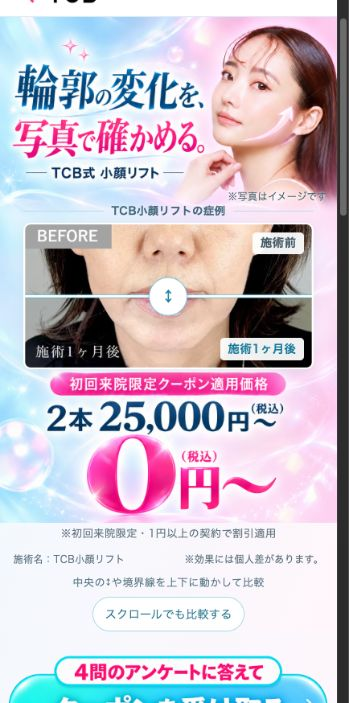
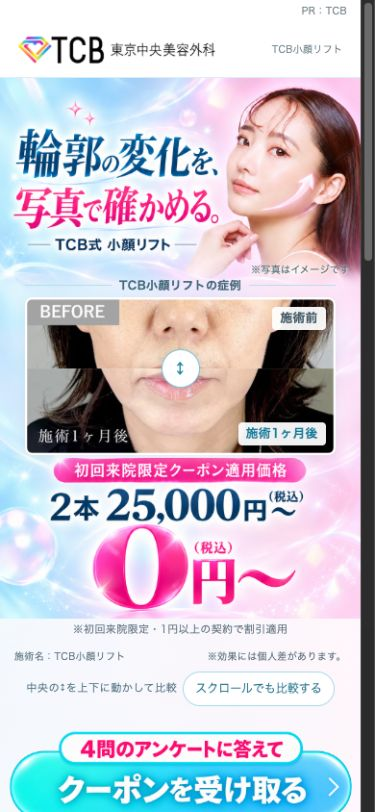
Remove horizontal lines from the manual case comparison

diff --git a/plan2.html b/plan2.html
@@ -6,7 +6,7 @@
 <meta content="width=device-width, initial-scale=1" name="viewport"/>
 <title>案2｜TCB小顔リフト｜画像デザイン版</title>
 <meta content="メスを使わない小顔術。タップで回答後、WEB予約限定30,000円OFFクーポン。" name="description"/>
-<link href="assets/9e771a79-lp.css" rel="stylesheet"/><link href="assets/85e780d7-ito-body.css" rel="stylesheet"/><link href="assets/d894dd17-tcb-template.css" rel="stylesheet"/><link href="assets/8ef37128-tcb-hero-art.css" rel="stylesheet"/><link href="assets/4cfdd9ff-tcb-progressive.css" rel="stylesheet"/><link href="assets/6c381362-tcb-body-images.css" rel="stylesheet"/><link href="assets/4fcc391f-ito-offer.css" rel="stylesheet"/><link href="assets/9528fad1-ito-dewy.css" rel="stylesheet"/><link href="assets/765aee84-ito-benefit-features.css" rel="stylesheet"/><link href="assets/f555da5e-ito-official-flow.css" rel="stylesheet"/><link href="assets/93b190fc-ito-luna.css" rel="stylesheet"/><link href="assets/4007dec8-ito-review.css" rel="stylesheet"/><link href="assets/fd6b892c-ito-sep25.css" rel="stylesheet"/><link href="assets/6dbf6036-ito-case-prices.css" rel="stylesheet"/><link href="minimal-update.css?v=20261030" rel="stylesheet"/><link href="survey-redesign.css?v=quality20261031" rel="stylesheet"/><link href="image-fv.css?v=quality20261031" rel="stylesheet"/><link href="destination-tone.css?v=quality20261031" rel="stylesheet"/><link href="quality-polish.css?v=20261031" rel="stylesheet"/><link href="original-tone.css?v=20261031" rel="stylesheet"/><link href="juno-art-direction.css?v=cases-stack20261101" rel="stylesheet"/><link href="juno-reference.css?v=selection-pulse20261101" rel="stylesheet"/><link href="case-comparison.css?v=20261103" rel="stylesheet"/><link href="fv-case-plan2.css?v=manual-default20261103" rel="stylesheet"/>
+<link href="assets/9e771a79-lp.css" rel="stylesheet"/><link href="assets/85e780d7-ito-body.css" rel="stylesheet"/><link href="assets/d894dd17-tcb-template.css" rel="stylesheet"/><link href="assets/8ef37128-tcb-hero-art.css" rel="stylesheet"/><link href="assets/4cfdd9ff-tcb-progressive.css" rel="stylesheet"/><link href="assets/6c381362-tcb-body-images.css" rel="stylesheet"/><link href="assets/4fcc391f-ito-offer.css" rel="stylesheet"/><link href="assets/9528fad1-ito-dewy.css" rel="stylesheet"/><link href="assets/765aee84-ito-benefit-features.css" rel="stylesheet"/><link href="assets/f555da5e-ito-official-flow.css" rel="stylesheet"/><link href="assets/93b190fc-ito-luna.css" rel="stylesheet"/><link href="assets/4007dec8-ito-review.css" rel="stylesheet"/><link href="assets/fd6b892c-ito-sep25.css" rel="stylesheet"/><link href="assets/6dbf6036-ito-case-prices.css" rel="stylesheet"/><link href="minimal-update.css?v=20261030" rel="stylesheet"/><link href="survey-redesign.css?v=quality20261031" rel="stylesheet"/><link href="image-fv.css?v=quality20261031" rel="stylesheet"/><link href="destination-tone.css?v=quality20261031" rel="stylesheet"/><link href="quality-polish.css?v=20261031" rel="stylesheet"/><link href="original-tone.css?v=20261031" rel="stylesheet"/><link href="juno-art-direction.css?v=cases-stack20261101" rel="stylesheet"/><link href="juno-reference.css?v=selection-pulse20261101" rel="stylesheet"/><link href="case-comparison.css?v=20261103" rel="stylesheet"/><link href="fv-case-plan2.css?v=no-divider20261103" rel="stylesheet"/>
 </head>
 <body class="theme-ito tcb-template ito-dewy ito-minimal-update" data-plan="2">
 <div class="page-wrap">
@@ -254,5 +254,5 @@
 <script src="assets/d0a99d02-tcb-case-autoplay.js?v=cases-stack20261101"></script>
 <script src="assets/f33a07ea-tcb-template.js"></script><script src="assets/15a8c400-ito-official-flow.js"></script><div class="sticky-cta" data-sticky-cta=""><a aria-label="WEBから予約して30,000円OFFクーポンをGETする（無料カウンセリング予約）" class="btn-cta ito-sparkle-cta ito-image-cta" href="https://t-c-b-biyougeka.com/threadlift_young_meta_c#reserve" rel="noopener" target="_blank"><img alt="WEBから予約して 30,000円OFFクーポンをGETする！" height="724" src="assets/cta-reservation-juno-v1.png" width="2172"/></a></div>
 <script src="assets/0c0a649d-ito-benefit-motion.js"></script>
-<script src="survey-redesign.js?v=two-line20261101"></script><script src="image-fv.js?v=juno20261031"></script><script src="quality-polish.js?v=image-recovery20261103"></script><script src="juno-reference.js?v=20261031"></script><script src="fv-case-scroll.js?v=manual-default20261103"></script></body>
+<script src="survey-redesign.js?v=two-line20261101"></script><script src="image-fv.js?v=juno20261031"></script><script src="quality-polish.js?v=image-recovery20261103"></script><script src="juno-reference.js?v=20261031"></script><script src="fv-case-scroll.js?v=no-divider20261103"></script></body>
 </html>

diff --git a/index.html b/index.html
@@ -46,7 +46,7 @@
 <article class="card">
 <div class="card-top"><span class="plan-number">PLAN 02</span><span class="tag">症例から伝える</span></div>
 <a aria-label="案2 公式症例で比較のプレビューを開く" class="preview" href="plan2.html"><img alt="FV内に手動の症例比較を組み込んだ案2" src="assets/preview-plan2.png"/></a>
-<div class="card-body"><h2>公式症例で比較</h2><p class="description">公式の症例写真をFVの中に配置。中央のつまみや境界線を上下に動かし、施術前と施術後を比較できます。</p><p class="point">手動比較が初期状態です。スクロール連動にも切り替えられます。</p><a class="open" href="plan2.html">案2をプレビュー<span aria-hidden="true">→</span></a></div>
+<div class="card-body"><h2>公式症例で比較</h2><p class="description">公式の症例写真をFVの中に配置。中央のつまみを上下に動かし、施術前と施術後を比較できます。</p><p class="point">手動比較が初期状態です。スクロール連動にも切り替えられます。</p><a class="open" href="plan2.html">案2をプレビュー<span aria-hidden="true">→</span></a></div>
 </article>
 
 

diff --git a/fv-case-plan2.css b/fv-case-plan2.css
@@ -186,19 +186,6 @@ body.ito-minimal-update .art-plan2 .is-scroll-ready .case-reveal__divider {
   user-select: none;
   -webkit-user-select: none;
 }
-body.ito-minimal-update .art-plan2 .case-reveal.is-scroll-ready::after {
-  content: "";
-  position: absolute;
-  z-index: 2;
-  top: var(--case-split);
-  left: 0;
-  right: 0;
-  height: 2px;
-  transform: translateY(-50%);
-  background: #fff;
-  box-shadow: 0 0 0 1px #3cb3d488;
-  pointer-events: none;
-}
 body.ito-minimal-update .art-plan2 .case-reveal__divider span {
   display: grid;
   place-items: center;
@@ -212,10 +199,10 @@ body.ito-minimal-update .art-plan2 .case-reveal__divider span {
   font-size: 20px;
   line-height: 1;
 }
-body.ito-minimal-update .art-plan2 .case-reveal.is-at-end::after {
-  visibility: hidden;
+body.ito-minimal-update .art-plan2 .case-reveal__divider:focus {
+  outline: none;
 }
-body.ito-minimal-update .art-plan2 .case-reveal__divider:focus-visible {
+body.ito-minimal-update .art-plan2 .case-reveal__divider:focus-visible span {
   outline: 2px solid #137fac;
   outline-offset: 1px;
 }

diff --git a/fv-case-scroll.js b/fv-case-scroll.js
@@ -16,7 +16,7 @@
     if (autoButton) autoButton.hidden = !manual || reducedMotion.matches;
     if (hint) {
       hint.textContent = manual || reducedMotion.matches
-        ? '中央の↕や境界線を上下に動かして比較'
+        ? '中央の↕を上下に動かして比較'
         : 'スクロール、またはつまみを上下に動かして比較';
     }
   }

diff --git a/README.md b/README.md
@@ -6,7 +6,7 @@
 - [案1：価格訴求](plan1.html)
 - [案2：FV内の症例比較](plan2.html)
 
-案2の症例比較は手動が初期状態です。つまみ・境界線の上下ドラッグ、またはキーボードの矢印キーで比較できます。「スクロールでも比較する」でスクロール連動に切り替えられます。症例写真にはTCB公式素材を使用しています。
+案2の症例比較は手動が初期状態です。中央のつまみの上下ドラッグ、またはキーボードの矢印キーで比較できます。「スクロールでも比較する」でスクロール連動に切り替えられます。症例写真にはTCB公式素材を使用しています。
 
 各案に4問のアンケートと回答後のLP、予約CTA、症例・料金・リスクの注釈を含みます。
 
